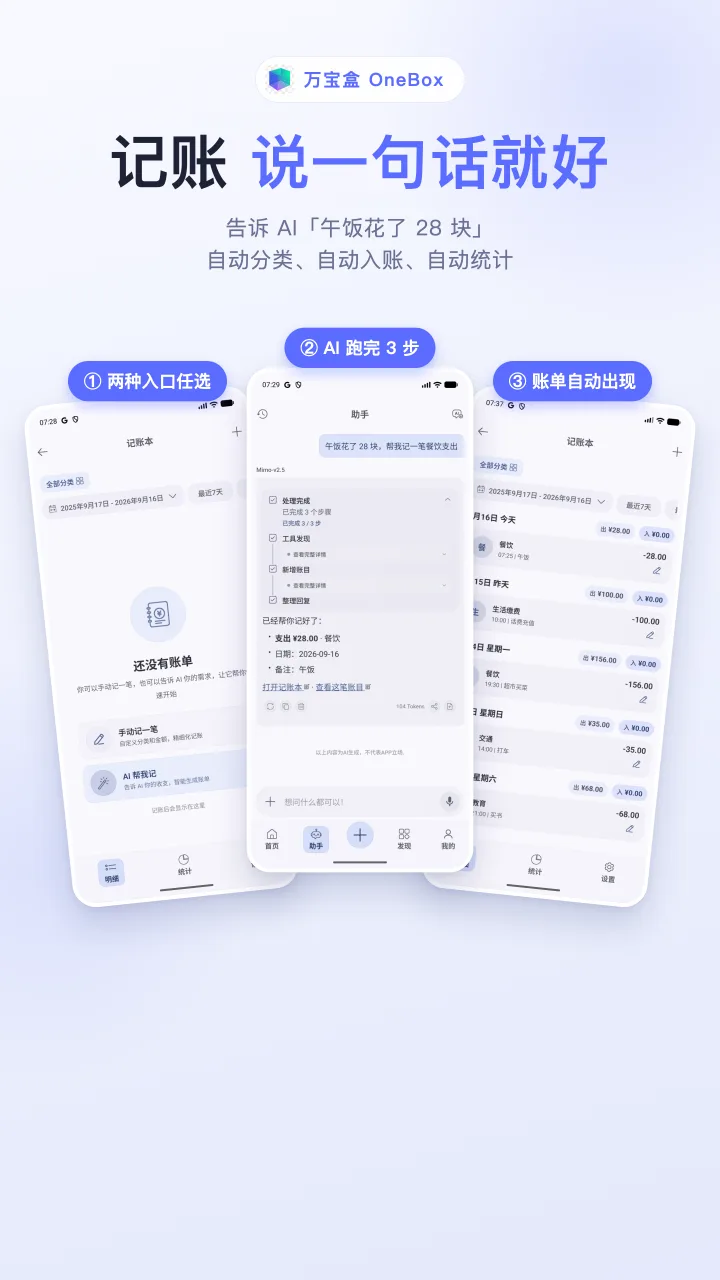
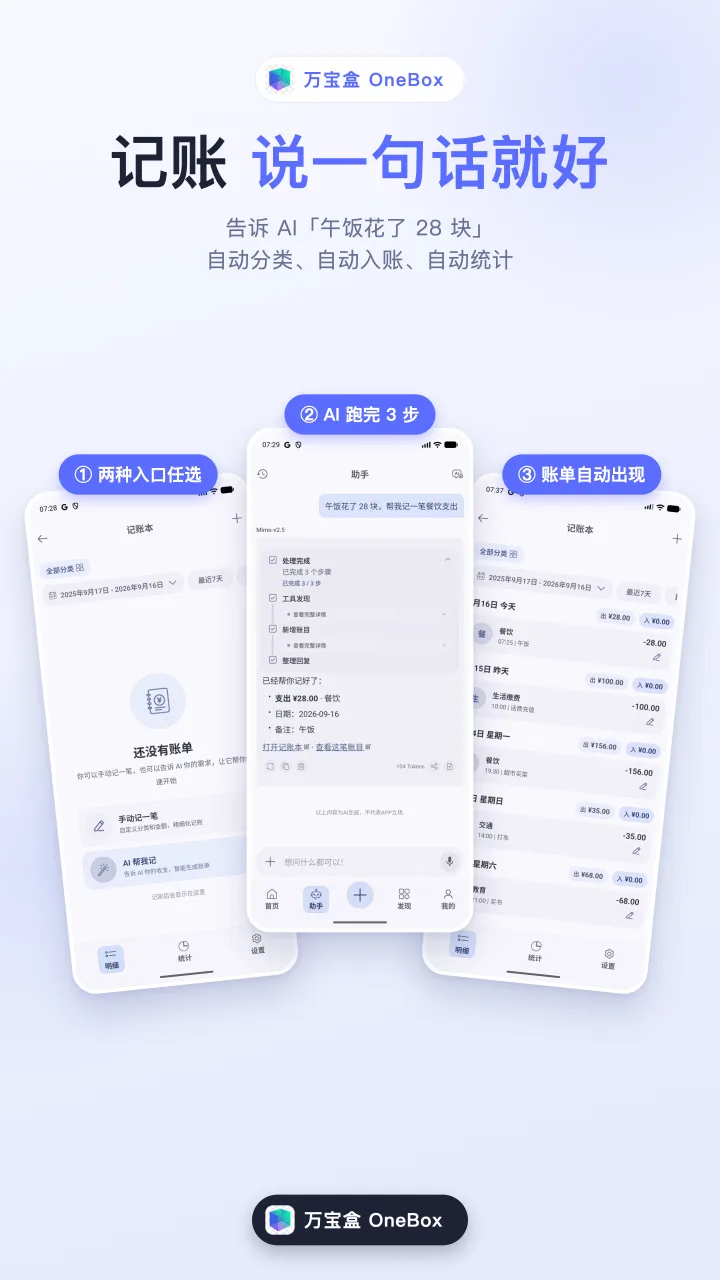
docs(readme): 同步商店重渲染后的前 3 张上架图, 链接版本号升到 ?v=3

diff --git a/README.zh-CN.md b/README.zh-CN.md
@@ -17,9 +17,9 @@
 
 <table>
   <tr>
-    <td><img src=".github/readme/zh/01.webp?v=2" width="180" alt="90+ 工具一个 App 全装下" /></td>
-    <td><img src=".github/readme/zh/02.webp?v=2" width="180" alt="说句话 AI 帮你干活" /></td>
-    <td><img src=".github/readme/zh/03.webp?v=2" width="180" alt="记账说一句话就好" /></td>
+    <td><img src=".github/readme/zh/01.webp?v=3" width="180" alt="90+ 工具一个 App 全装下" /></td>
+    <td><img src=".github/readme/zh/02.webp?v=3" width="180" alt="说句话 AI 帮你干活" /></td>
+    <td><img src=".github/readme/zh/03.webp?v=3" width="180" alt="记账说一句话就好" /></td>
     <td><a href="https://www.youtube.com/shorts/DSCKCWa0L2g"><img src=".github/readme/intro-zh.jpg?v=2" width="180" alt="视频介绍(YouTube Shorts)" /></a></td>
   </tr>
 </table>

diff --git a/README.md b/README.md
@@ -18,9 +18,9 @@
 
 <table>
   <tr>
-    <td><img src=".github/readme/en/01.webp?v=2" width="180" alt="90+ tools in one app" /></td>
-    <td><img src=".github/readme/en/02.webp?v=2" width="180" alt="Say the word, AI does it" /></td>
-    <td><img src=".github/readme/en/03.webp?v=2" width="180" alt="Bookkeeping by voice" /></td>
+    <td><img src=".github/readme/en/01.webp?v=3" width="180" alt="90+ tools in one app" /></td>
+    <td><img src=".github/readme/en/02.webp?v=3" width="180" alt="Say the word, AI does it" /></td>
+    <td><img src=".github/readme/en/03.webp?v=3" width="180" alt="Bookkeeping by voice" /></td>
     <td><a href="https://youtube.com/shorts/eGkwoe3puSw"><img src=".github/readme/intro-en.jpg?v=2" width="180" alt="Intro video (YouTube Shorts)" /></a></td>
   </tr>
 </table>
